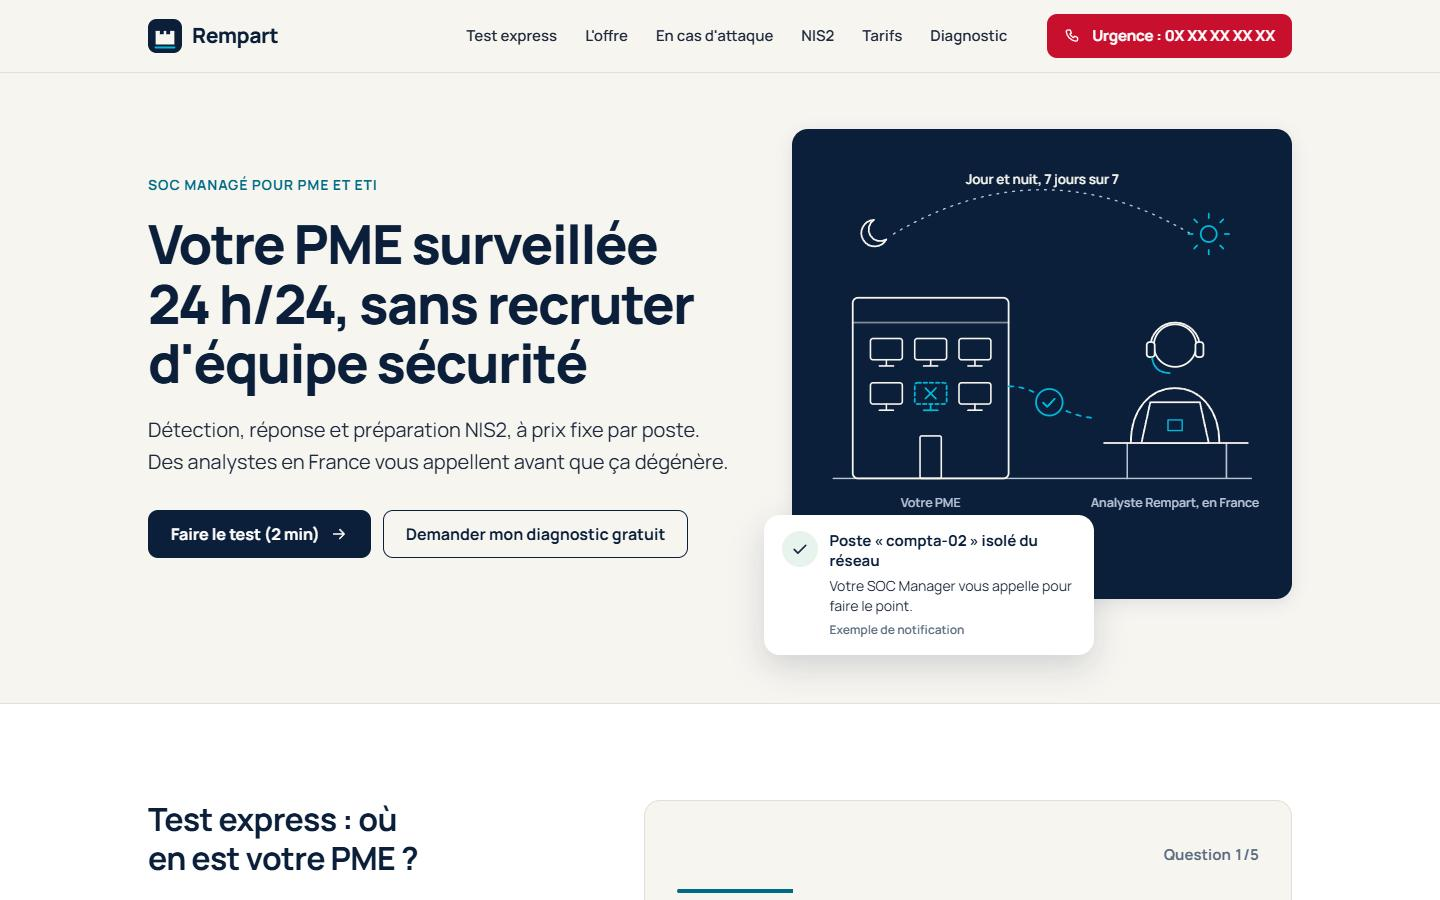
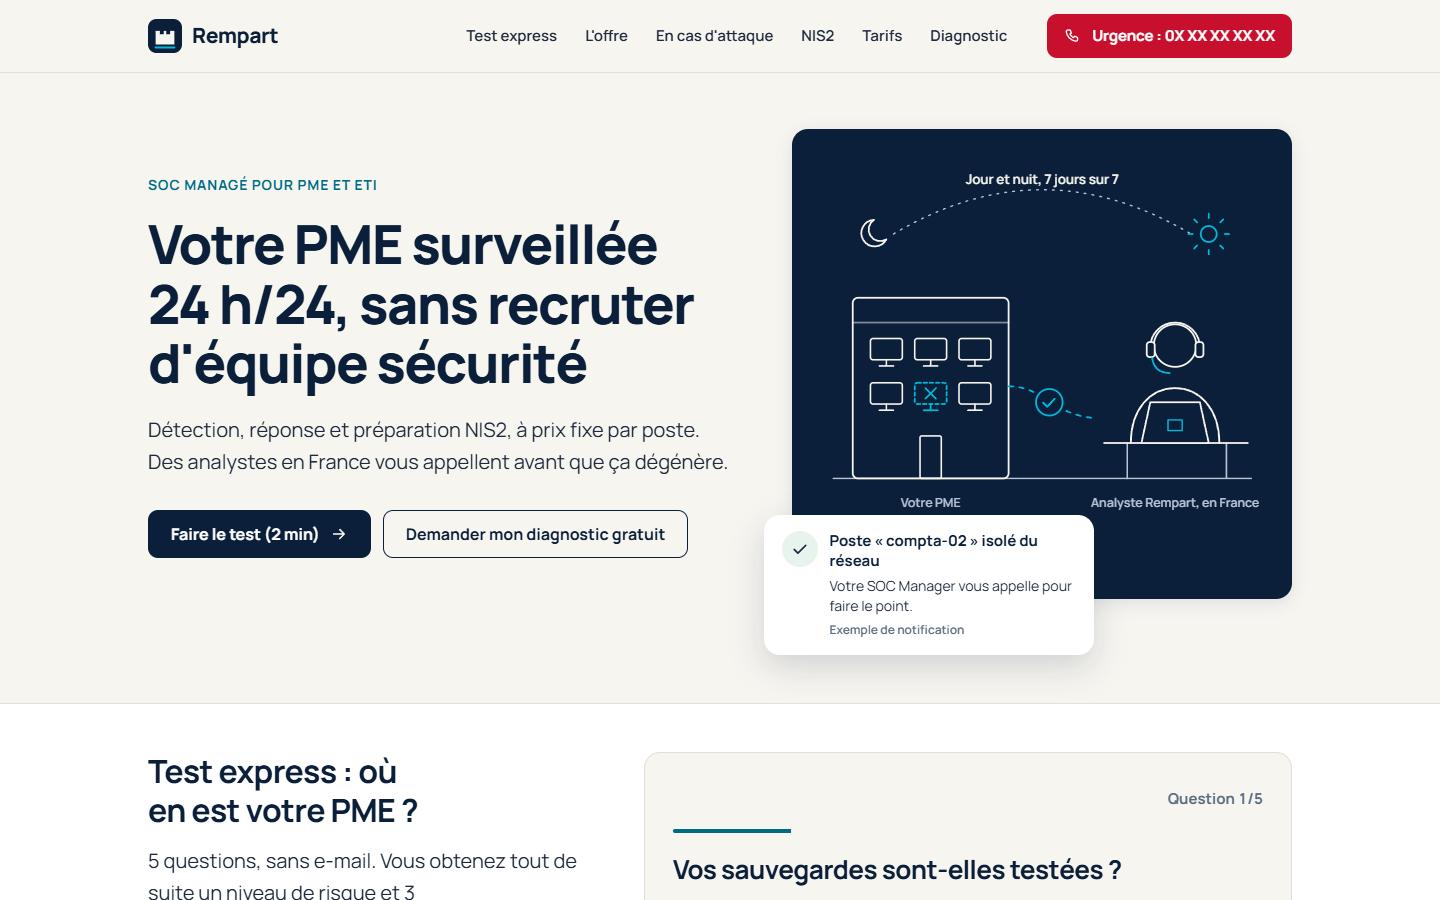
Fit each anchored cybersecurite section in one desktop screen

diff --git a/vitrine-cybersecurite/index.html b/vitrine-cybersecurite/index.html
@@ -38,7 +38,7 @@
   --header-h:72px;
 }
 *,*::before,*::after{box-sizing:border-box}
-html{scroll-behavior:smooth;scroll-padding-top:calc(var(--header-h) + 8px);-webkit-text-size-adjust:100%}
+html{scroll-behavior:smooth;scroll-padding-top:calc(var(--header-h) + 1px);-webkit-text-size-adjust:100%}
 body{margin:0;background:var(--bg);color:var(--text);font-family:var(--font);font-size:17px;line-height:1.6;overflow-x:hidden}
 img,svg{display:block;max-width:100%}
 a{color:var(--cyan-text);text-underline-offset:3px}
@@ -89,7 +89,9 @@ section{padding:96px 0}
 .main-nav a{display:block;padding:8px 12px;border-radius:var(--radius-md);color:var(--text);text-decoration:none;font-weight:600;font-size:15px}
 .main-nav a:hover{background:#0B1F3A0D;color:var(--navy)}
 .header-urgent{min-height:44px;padding:0 16px;font-size:15px}
-.menu-btn{display:none;margin-left:auto;background:none;border:0;width:44px;height:44px;align-items:center;justify-content:center;color:var(--navy);cursor:pointer;border-radius:var(--radius-md)}
+.menu-btn{display:none;margin-left:auto;background:none;border:0;padding:0;width:44px;height:44px;align-items:center;justify-content:center;color:var(--navy);cursor:pointer}
+.menu-btn:focus-visible{outline:none;color:var(--cyan-text)}
+.menu-btn:focus-visible svg{transform:scale(1.15)}
 
 /* Hero */
 .hero{padding:56px 0 104px}
@@ -185,7 +187,7 @@ select.input{appearance:none;-webkit-appearance:none;background-image:url("data:
 .card ul{margin:16px 0 0;padding:0;list-style:none;display:grid;gap:8px}
 .card li{display:grid;grid-template-columns:20px 1fr;gap:10px;font-size:15px;line-height:1.5}
 .card li svg{margin-top:3px;color:var(--cyan-text)}
-.card-manager{grid-column:1/-1;display:grid;grid-template-columns:auto 1fr;gap:20px;align-items:center;background:var(--navy);color:var(--on-navy);border-radius:var(--radius-lg);padding:24px 28px}
+.card-manager{margin-top:16px;display:grid;grid-template-columns:auto 1fr;gap:20px;align-items:center;background:var(--navy);color:var(--on-navy);border-radius:var(--radius-lg);padding:24px 28px}
 .card-manager strong{color:#fff;font-size:18px;display:block}
 .card-manager span{color:var(--on-navy-muted);font-size:15px}
 .card-manager .card-icon{margin:0;background:#ffffff14}
@@ -211,14 +213,14 @@ select.input{appearance:none;-webkit-appearance:none;background-image:url("data:
 .nis2-text p{margin-top:18px;max-width:62ch}
 .nis2-text p:first-of-type{margin-top:20px}
 .stamp{display:inline-flex;align-items:center;gap:8px;margin-top:24px;padding:8px 14px;border-radius:999px;border:1.5px solid var(--border);font-size:14px;font-weight:700;color:var(--navy);background:var(--surface)}
-.figures{margin-top:36px;display:grid;grid-template-columns:1.25fr 1fr;gap:28px;padding-top:28px;border-top:1px solid var(--line)}
-.fig-big{font-size:clamp(30px,3vw,40px);font-weight:800;color:var(--navy);line-height:1.1;letter-spacing:-.02em;font-variant-numeric:tabular-nums}
-.fig-label{font-size:15px;margin-top:6px}
-.bars{margin-top:16px;display:grid;gap:8px}
-.bar{display:grid;grid-template-columns:62px 1fr;gap:10px;align-items:center;font-size:13px;font-weight:700;color:var(--muted);font-variant-numeric:tabular-nums}
+.figures{margin-top:28px;display:grid;grid-template-columns:1.5fr 1fr 1fr;gap:12px 24px;padding-top:24px;border-top:1px solid var(--line)}
+.fig-big{font-size:clamp(28px,2.4vw,34px);white-space:nowrap;font-weight:800;color:var(--navy);line-height:1.1;letter-spacing:-.02em;font-variant-numeric:tabular-nums}
+.fig-label{font-size:15px;line-height:1.45;margin-top:6px}
+.bars{margin-top:10px;display:grid;gap:6px}
+.bar{display:grid;grid-template-columns:48px 1fr;gap:10px;align-items:center;font-size:13px;font-weight:700;color:var(--muted);font-variant-numeric:tabular-nums}
 .bar i{display:block;height:10px;border-radius:3px;background:var(--navy)}
 .bar.before i{background:var(--border)}
-.fig-pair{display:grid;gap:18px}
+.figures .fig-src{grid-column:1/-1}
 .nis2-tool{background:var(--surface);border:1px solid var(--line);border-radius:var(--radius-lg);box-shadow:var(--shadow-sm);padding:28px}
 .nis2-tool h3{font-size:22px}
 .nis2-tool > p{margin-top:6px;font-size:15px;color:var(--muted)}
@@ -265,9 +267,10 @@ select.input{appearance:none;-webkit-appearance:none;background-image:url("data:
 /* Pricing */
 .pricing{background:var(--surface);border-top:1px solid var(--line);border-bottom:1px solid var(--line)}
 .pricing-head{display:flex;flex-wrap:wrap;gap:16px 40px;align-items:flex-end;justify-content:space-between}
-.pricing-head h2{max-width:22ch}
+.pricing-head h2{max-width:none}
 .pricing-head .lead{margin-top:12px}
-.tiers{margin-top:40px;display:grid;grid-template-columns:repeat(3,minmax(0,1fr));gap:20px;align-items:stretch}
+.pricing-body{margin-top:36px;display:grid;grid-template-columns:minmax(0,3fr) minmax(0,1fr);gap:20px;align-items:stretch}
+.tiers{display:grid;grid-template-columns:repeat(3,minmax(0,1fr));gap:20px;align-items:stretch}
 .tier{position:relative;background:var(--bg);border:1px solid var(--line);border-radius:var(--radius-lg);padding:28px;display:flex;flex-direction:column}
 .tier.reco{border:2px solid var(--cyan-text);background:var(--surface);box-shadow:var(--shadow-md)}
 .badge{position:absolute;top:-13px;left:28px;background:var(--cyan-text);color:#fff;font-size:13px;font-weight:700;padding:4px 12px;border-radius:999px}
@@ -282,7 +285,7 @@ select.input{appearance:none;-webkit-appearance:none;background-image:url("data:
 .tier li svg{margin-top:3px;color:var(--cyan-text)}
 .tier li.inherit{font-weight:700;color:var(--navy)}
 .tier .btn{width:100%}
-.sim{margin-top:28px;display:grid;grid-template-columns:minmax(0,1fr) minmax(0,1.1fr);gap:0;border-radius:var(--radius-lg);overflow:hidden;border:1px solid var(--line)}
+.sim{display:grid;grid-template-columns:minmax(0,1fr);grid-template-rows:auto 1fr;gap:0;border-radius:var(--radius-lg);overflow:hidden;border:1px solid var(--line)}
 .sim-in{padding:28px;background:var(--bg)}
 .sim-in h3{font-size:20px}
 .sim-row{display:grid;grid-template-columns:1fr 110px;gap:16px;align-items:center;margin-top:16px}
@@ -354,6 +357,69 @@ input[type=range]{width:100%;height:44px;accent-color:var(--navy);background:tra
   *,*::before,*::after{animation-duration:0ms !important;transition-duration:0ms !important}
 }
 
+
+/* Desktop: every anchored section fits one screen under the sticky header */
+@media (min-width:1024px){
+  #test,#offre,#attaque,#nis2,#tarifs,#contact{padding:48px 0}
+  .quiz-panel{min-height:430px;padding:24px 28px}
+  .progress-bar{margin:8px 0 20px}
+  .result{grid-template-columns:180px 1fr;gap:24px}
+  .gauge{width:180px}
+  .result-text{font-size:15px;margin-top:6px}
+  .recos{margin-top:12px;gap:6px}
+  .recos li{font-size:14px;line-height:1.45}
+  .report{padding-top:14px;margin-top:0}
+  .check{margin-top:10px}
+  .restart{margin-top:6px}
+  .offer-grid{grid-template-columns:minmax(0,.8fr) minmax(0,1.7fr);gap:48px}
+  .offer-head{position:static}
+  .cards{gap:16px}
+  .card{display:grid;grid-template-columns:44px 1fr;column-gap:14px;align-items:center;align-content:start;padding:22px 24px}
+  .card-icon{width:44px;height:44px;margin:0}
+  .card p,.card ul{grid-column:1/-1}
+  .card p{margin-top:12px;font-size:15px}
+  .card ul{margin-top:12px;gap:6px}
+  .card-manager{padding:18px 24px}
+  .card-manager .card-icon{width:44px;height:44px}
+  .timeline{margin-top:44px}
+  .attack-note{margin-top:32px}
+  .nis2-grid{gap:48px}
+  .nis2-text p{font-size:16px;margin-top:12px}
+  .nis2-text p:first-of-type{margin-top:16px}
+  .nis2-text .figures p.fig-label{font-size:14px;margin-top:4px}
+  .nis2-text .figures p.source{font-size:13px;margin-top:4px}
+  .card-manager{grid-template-columns:44px 1fr;gap:16px;align-items:start}
+  .card-manager strong{font-size:16px}
+  .card-manager span{font-size:14px;display:block;margin-top:2px}
+  .stamp{margin-top:18px}
+  .nis2-tool{padding:24px}
+  .yn{margin-top:14px}
+  .yn legend{font-size:15px}
+  .yn-opts{margin-top:8px}
+  .yn-opts span{min-height:40px}
+  .nis2-result{margin-top:16px;padding:12px 16px}
+  .nis2-tool .btn{margin-top:16px}
+  .tier{padding:24px 22px}
+  .tier ul{margin:16px 0 20px}
+  .price b{font-size:32px}
+  .sim-in,.sim-out{padding:22px}
+  .sim-in h3{font-size:18px}
+  .sim-row{grid-template-columns:1fr 84px;gap:12px}
+  .sim-out{justify-content:flex-start}
+  .sim-out .total{font-size:clamp(28px,2.3vw,34px)}
+  .urgent-box,.form-box{padding:26px 28px}
+  .urgent-num{margin-top:8px}
+  .urgent-box .btn{margin-top:14px}
+  .reflexes{margin-top:20px;padding-top:18px}
+  .reflexes ol{gap:10px;margin-top:12px}
+  .reflexes li{grid-template-columns:36px 1fr}
+  .reflexes li > span:first-child{width:36px;height:36px}
+  .avoid{margin-top:12px}
+  .form-grid{gap:14px;margin-top:16px}
+  .contact-grid{grid-template-columns:minmax(0,.82fr) minmax(0,1.18fr);gap:28px}
+  .form-box .err{font-size:13px}
+  .form-box .field{gap:6px}
+}
 /* Responsive */
 @media (max-width:1100px){
   .main-nav a{padding:8px 8px;font-size:14px}
@@ -369,6 +435,7 @@ input[type=range]{width:100%;height:44px;accent-color:var(--navy);background:tra
   .header-in{gap:8px}
   .hero-grid,.quiz-layout,.offer-grid,.nis2-grid,.proof-top,.contact-grid{grid-template-columns:minmax(0,1fr)}
   .offer-head{position:static}
+  .pricing-body{grid-template-columns:minmax(0,1fr)}
   .hero-visual{max-width:620px}
   .notif{left:16px}
   .footer-grid{grid-template-columns:1fr 1fr}
@@ -402,6 +469,8 @@ input[type=range]{width:100%;height:44px;accent-color:var(--navy);background:tra
   .step-dot{grid-row:span 4}
   .step-n{margin-top:2px}
   .figures{grid-template-columns:1fr}
+  .pricing-body{display:block}
+  .sim{margin-top:28px}
   .about{grid-template-columns:1fr}
   .about-art{width:120px}
   .cert{grid-template-columns:72px 1fr;gap:14px}
@@ -593,6 +662,10 @@ input[type=range]{width:100%;height:44px;accent-color:var(--navy);background:tra
           <li><svg width="16" height="16" aria-hidden="true"><use href="#i-x"/></svg>Le conseil juridique et la déclaration à votre assureur&nbsp;: nous vous orientons vers les bons interlocuteurs.</li>
         </ul>
       </div>
+      <div class="card-manager on-navy">
+        <div class="card-icon"><svg width="26" height="26" aria-hidden="true"><use href="#i-headset"/></svg></div>
+        <div><strong>Un SOC Manager attitré, qui connaît votre entreprise</strong><span>Le même interlocuteur pour les alertes, les rapports mensuels et les questions de vos clients sur la sécurité.</span></div>
+      </div>
     </div>
     <div class="cards">
       <article class="card">
@@ -635,10 +708,6 @@ input[type=range]{width:100%;height:44px;accent-color:var(--navy);background:tra
           <li><svg width="16" height="16" aria-hidden="true"><use href="#i-check"/></svg>Les bons réflexes affichés au poste de travail</li>
         </ul>
       </article>
-      <div class="card-manager on-navy">
-        <div class="card-icon"><svg width="26" height="26" aria-hidden="true"><use href="#i-headset"/></svg></div>
-        <div><strong>Un SOC Manager attitré, qui connaît votre entreprise</strong><span>Le même interlocuteur pour les alertes, les rapports mensuels et les questions de vos clients sur la sécurité.</span></div>
-      </div>
     </div>
   </div>
 </section>
@@ -710,20 +779,17 @@ input[type=range]{width:100%;height:44px;accent-color:var(--navy);background:tra
       <span class="stamp"><svg width="18" height="18" aria-hidden="true"><use href="#i-clock"/></svg>Transposition française en cours, mis à jour le 13 novembre 2026</span>
 
       <div class="figures">
-        <div>
+        <div class="fig fig-wide">
           <div class="fig-big">500 → 15&nbsp;000</div>
           <p class="fig-label">entités régulées en France, environ, avant et après NIS2</p>
           <div class="bars" aria-hidden="true">
             <div class="bar before"><span>Avant</span><i style="width:3.33%;min-width:4px"></i></div>
             <div class="bar"><span>Après</span><i style="width:100%"></i></div>
           </div>
-          <p class="source" style="margin-top:10px">Note explicative du projet de loi, citée par <a href="https://www.kiteworks.com/fr/conformite-reglementaire/france-nis2-report-retard-conformite/" rel="noopener">Kiteworks</a>, mise à jour du 12 octobre 2026.</p>
         </div>
-        <div class="fig-pair">
-          <div><div class="fig-big">80&nbsp;%</div><p class="fig-label">des TPE-PME ne se disent pas préparées</p></div>
-          <div><div class="fig-big">16&nbsp;%</div><p class="fig-label">se déclarent victimes d'au moins un incident</p></div>
-          <p class="source">Enquête OpinionWay pour <a href="https://www.cybermalveillance.gouv.fr/medias/2025/10/250910_InfographieMaturiteCyberTPE-PME_SCREEN.pdf" rel="noopener">Cybermalveillance.gouv.fr</a>, 588 entreprises de moins de 250 salariés, juin et juillet 2025.</p>
-        </div>
+        <div class="fig"><div class="fig-big">80&nbsp;%</div><p class="fig-label">des TPE-PME ne se disent pas préparées</p></div>
+        <div class="fig"><div class="fig-big">16&nbsp;%</div><p class="fig-label">se déclarent victimes d'au moins un incident</p></div>
+        <p class="source fig-src">Sources&nbsp;: note explicative du projet de loi, citée par <a href="https://www.kiteworks.com/fr/conformite-reglementaire/france-nis2-report-retard-conformite/" rel="noopener">Kiteworks</a> (mise à jour du 12 octobre 2026)&nbsp;; enquête OpinionWay pour <a href="https://www.cybermalveillance.gouv.fr/medias/2025/10/250910_InfographieMaturiteCyberTPE-PME_SCREEN.pdf" rel="noopener">Cybermalveillance.gouv.fr</a>, 588 entreprises de moins de 250 salariés, juin et juillet 2025.</p>
       </div>
     </div>
 
@@ -746,7 +812,7 @@ input[type=range]{width:100%;height:44px;accent-color:var(--navy);background:tra
         <div class="nis2-result" id="nis2-result" aria-live="polite"><strong>Votre résultat s'affiche ici</strong>Répondez aux 3 questions.</div>
       </form>
       <a class="btn btn-primary" href="#"><svg width="18" height="18" aria-hidden="true"><use href="#i-download"/></svg>Télécharger la checklist NIS2 (PDF, 2 pages)</a>
-      <p class="source">Résultat indicatif, pas un avis juridique. Seuils&nbsp;: <a href="https://www.stoik.com/nis2" rel="noopener">Stoïk</a> et <a href="https://eur-lex.europa.eu/legal-content/FR/TXT/HTML/?uri=CELEX:32003H0361" rel="noopener">recommandation 2003/361 (EUR-Lex)</a>. Calendrier&nbsp;: <a href="https://www.leto.legal/news/nis2-transposition-septembre-2026" rel="noopener">Leto</a>, mise à jour du 19 octobre 2026. Checklist datée du 13 novembre 2026.</p>
+      <p class="source">Résultat indicatif, pas un avis juridique. Seuils&nbsp;: <a href="https://www.stoik.com/nis2" rel="noopener">Stoïk</a>, <a href="https://eur-lex.europa.eu/legal-content/FR/TXT/HTML/?uri=CELEX:32003H0361" rel="noopener">EUR-Lex 2003/361</a>. Calendrier&nbsp;: <a href="https://www.leto.legal/news/nis2-transposition-septembre-2026" rel="noopener">Leto</a>, 19 octobre 2026. Checklist datée du 13 novembre 2026.</p>
     </aside>
   </div>
 </section>
@@ -824,6 +890,7 @@ input[type=range]{width:100%;height:44px;accent-color:var(--navy);background:tra
       <a class="btn btn-secondary" href="#simulateur"><svg width="18" height="18" aria-hidden="true"><use href="#i-calc"/></svg>Calculer mon prix</a>
     </div>
 
+    <div class="pricing-body">
     <div class="tiers" id="tiers">
       <article class="tier">
         <h3>Essentiel</h3>
@@ -883,6 +950,7 @@ input[type=range]{width:100%;height:44px;accent-color:var(--navy);background:tra
         <p class="source">Calcul d'exemple sur un prix public&nbsp;: Huntress Managed EDR, 8,99&nbsp;$ par poste et par mois (<a href="https://www.huntress.com/pricing" rel="noopener">huntress.com/pricing</a>, observé le 12 novembre 2026). Ce n'est pas un prix Rempart&nbsp;: Rempart est une entreprise fictive.</p>
       </div>
     </div>
+    </div>
   </div>
 </section>
 
@@ -907,19 +975,19 @@ input[type=range]{width:100%;height:44px;accent-color:var(--navy);background:tra
 
     <div class="form-box">
       <h2 id="diag-title">Demander mon diagnostic gratuit</h2>
-      <p>Un analyste vous rappelle pour faire le point sur vos postes, vos sauvegardes et NIS2.</p>
+      <p>Un analyste vous rappelle pour faire le point sur vos postes et NIS2.</p>
       <span class="picked" id="picked"><svg width="16" height="16" aria-hidden="true"><use href="#i-check"/></svg><span></span></span>
       <form id="diag-form" novalidate>
         <div class="form-grid">
           <div class="field">
             <label for="f-name">Nom</label>
             <input class="input" id="f-name" name="name" autocomplete="name" aria-describedby="e-name">
-            <p class="err" id="e-name"><svg width="16" height="16" aria-hidden="true"><use href="#i-alert"/></svg><span>Le nom est vide. L'analyste en a besoin pour savoir qui demander au téléphone.</span></p>
+            <p class="err" id="e-name"><svg width="16" height="16" aria-hidden="true"><use href="#i-alert"/></svg><span>Le nom est vide. Indiquez qui l'analyste doit demander.</span></p>
           </div>
           <div class="field">
             <label for="f-company">Entreprise</label>
             <input class="input" id="f-company" name="company" autocomplete="organization" aria-describedby="e-company">
-            <p class="err" id="e-company"><svg width="16" height="16" aria-hidden="true"><use href="#i-alert"/></svg><span>Le nom de l'entreprise est vide. Nous en avons besoin pour préparer le diagnostic.</span></p>
+            <p class="err" id="e-company"><svg width="16" height="16" aria-hidden="true"><use href="#i-alert"/></svg><span>Le nom de l'entreprise est vide.</span></p>
           </div>
           <div class="field">
             <label for="f-seats">Nombre de postes</label>
@@ -941,11 +1009,11 @@ input[type=range]{width:100%;height:44px;accent-color:var(--navy);background:tra
               <option>Dans l'après-midi</option>
               <option>En fin de journée</option>
             </select>
-            <p class="err" id="e-slot"><svg width="16" height="16" aria-hidden="true"><use href="#i-alert"/></svg><span>Aucun créneau choisi. Indiquez quand vous êtes joignable pour que l'analyste vous rappelle au bon moment.</span></p>
+            <p class="err" id="e-slot"><svg width="16" height="16" aria-hidden="true"><use href="#i-alert"/></svg><span>Aucun créneau choisi. Indiquez quand vous êtes joignable.</span></p>
           </div>
           <div class="full">
             <button class="btn btn-primary" type="submit" id="diag-submit">Envoyer ma demande de diagnostic</button>
-            <p class="privacy">Vos coordonnées servent uniquement à vous rappeler pour ce diagnostic. Aucun traceur publicitaire sur ce site.</p>
+            <p class="privacy">Vos coordonnées servent uniquement à vous rappeler. Aucun traceur publicitaire.</p>
           </div>
         </div>
       </form>
@@ -1126,9 +1194,9 @@ input[type=range]{width:100%;height:44px;accent-color:var(--navy);background:tra
               '<input class="input" id="r-email" type="email" autocomplete="email" aria-describedby="e-email"></div>' +
               '<button class="btn btn-primary" type="submit">Recevoir mon rapport détaillé</button>' +
             '</div>' +
-            '<p class="err" id="e-email" style="margin-top:8px"><svg width="16" height="16" aria-hidden="true"><use href="#i-alert"/></svg><span>Cette adresse ne semble pas complète. Il manque le @ ou le domaine. Exemple : prenom@entreprise.fr.</span></p>' +
-            '<label class="check"><input type="checkbox" id="r-consent" aria-describedby="e-consent"><span>J\'accepte de recevoir le rapport détaillé par e-mail. Rempart ne l\'utilise pour rien d\'autre.</span></label>' +
-            '<p class="err" id="e-consent" style="margin-top:6px"><svg width="16" height="16" aria-hidden="true"><use href="#i-alert"/></svg><span>La case n\'est pas cochée. Sans votre accord, nous ne pouvons pas envoyer le rapport.</span></p>' +
+            '<p class="err" id="e-email" style="margin-top:8px"><svg width="16" height="16" aria-hidden="true"><use href="#i-alert"/></svg><span>Adresse incomplète, il manque le @ ou le domaine. Exemple : prenom@entreprise.fr.</span></p>' +
+            '<label class="check"><input type="checkbox" id="r-consent" aria-describedby="e-consent"><span>J\'accepte de recevoir le rapport par e-mail, et rien d\'autre.</span></label>' +
+            '<p class="err" id="e-consent" style="margin-top:6px"><svg width="16" height="16" aria-hidden="true"><use href="#i-alert"/></svg><span>Case non cochée. Sans votre accord, pas d\'envoi possible.</span></p>' +
           '</form>' +
           '<button type="button" class="restart" id="restart">Refaire le test</button>' +
         '</div>' +
